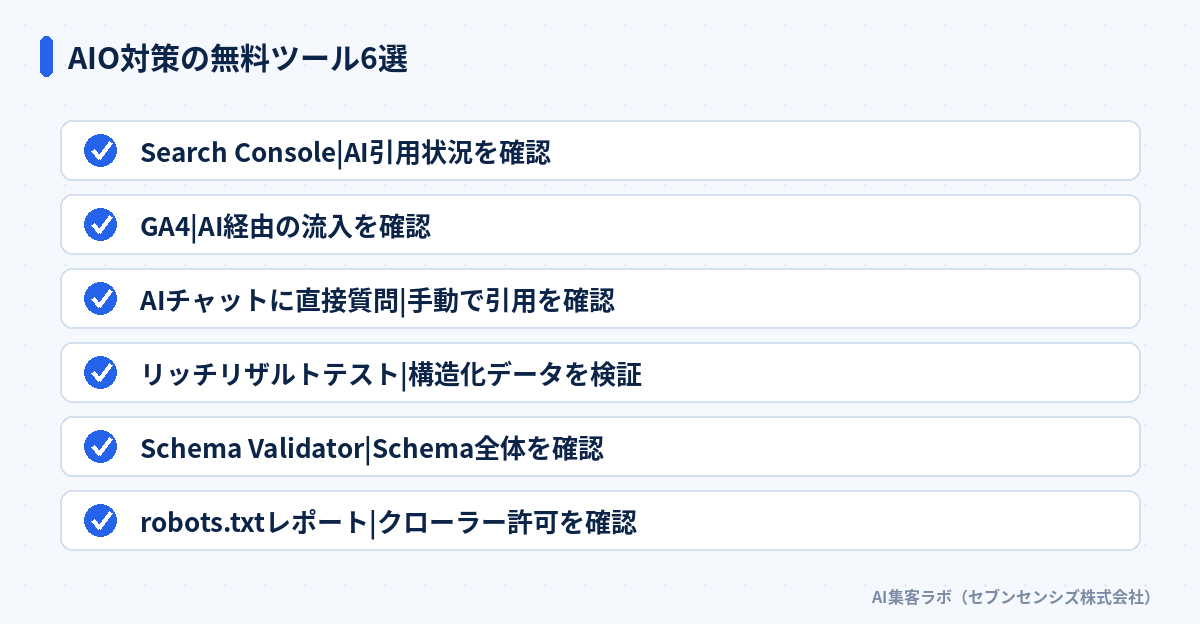
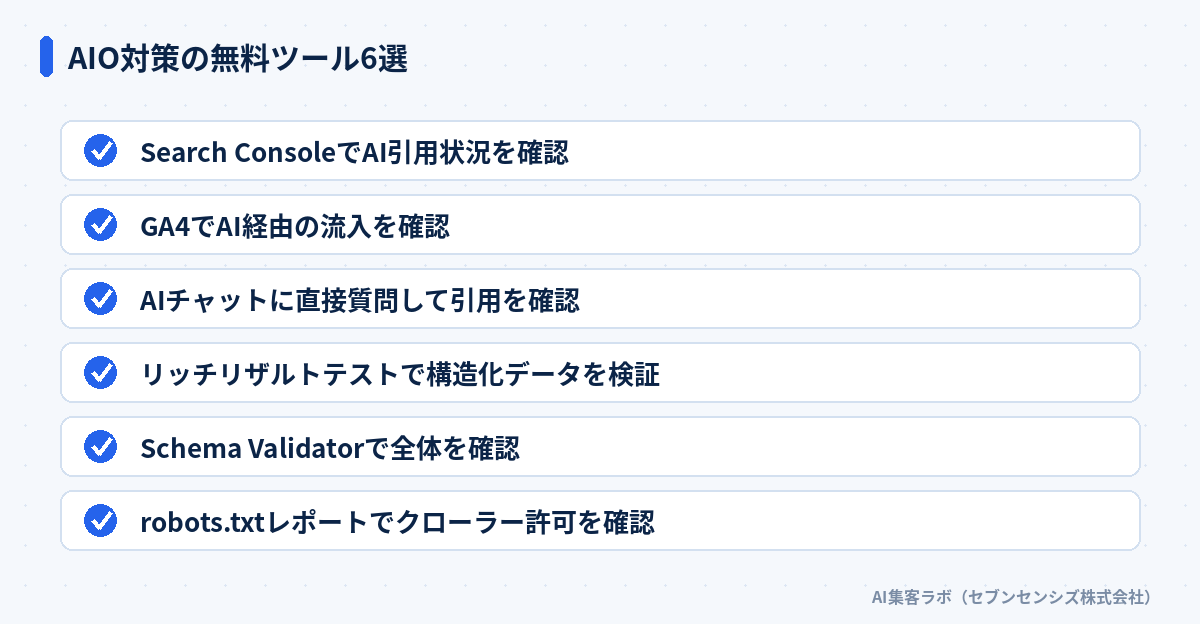
fix: 図解のlist型で "|" 区切りがそのまま表示される不具合を修正（aio-taisaku-muryou-tool）
make_diagram.py の draw_list は "label|desc" 形式を解釈せず、区切り文字がそのまま
画像に描画されていた（--type vs のみ対応）。プレーンな1文形式に書き換えて再生成。

diff --git a/articles/aio-taisaku-muryou-tool.md b/articles/aio-taisaku-muryou-tool.md
@@ -14,7 +14,7 @@ diagrams:
   - name: tool-list
     type: list
     title: AIO対策の無料ツール6選
-    items: ["Search Console|AI引用状況を確認", "GA4|AI経由の流入を確認", "AIチャットに直接質問|手動で引用を確認", "リッチリザルトテスト|構造化データを検証", "Schema Validator|Schema全体を確認", "robots.txtレポート|クローラー許可を確認"]
+    items: ["Search ConsoleでAI引用状況を確認", "GA4でAI経由の流入を確認", "AIチャットに直接質問して引用を確認", "リッチリザルトテストで構造化データを検証", "Schema Validatorで全体を確認", "robots.txtレポートでクローラー許可を確認"]
   - name: steps
     type: flow
     title: 無料ツール導入3ステップ
